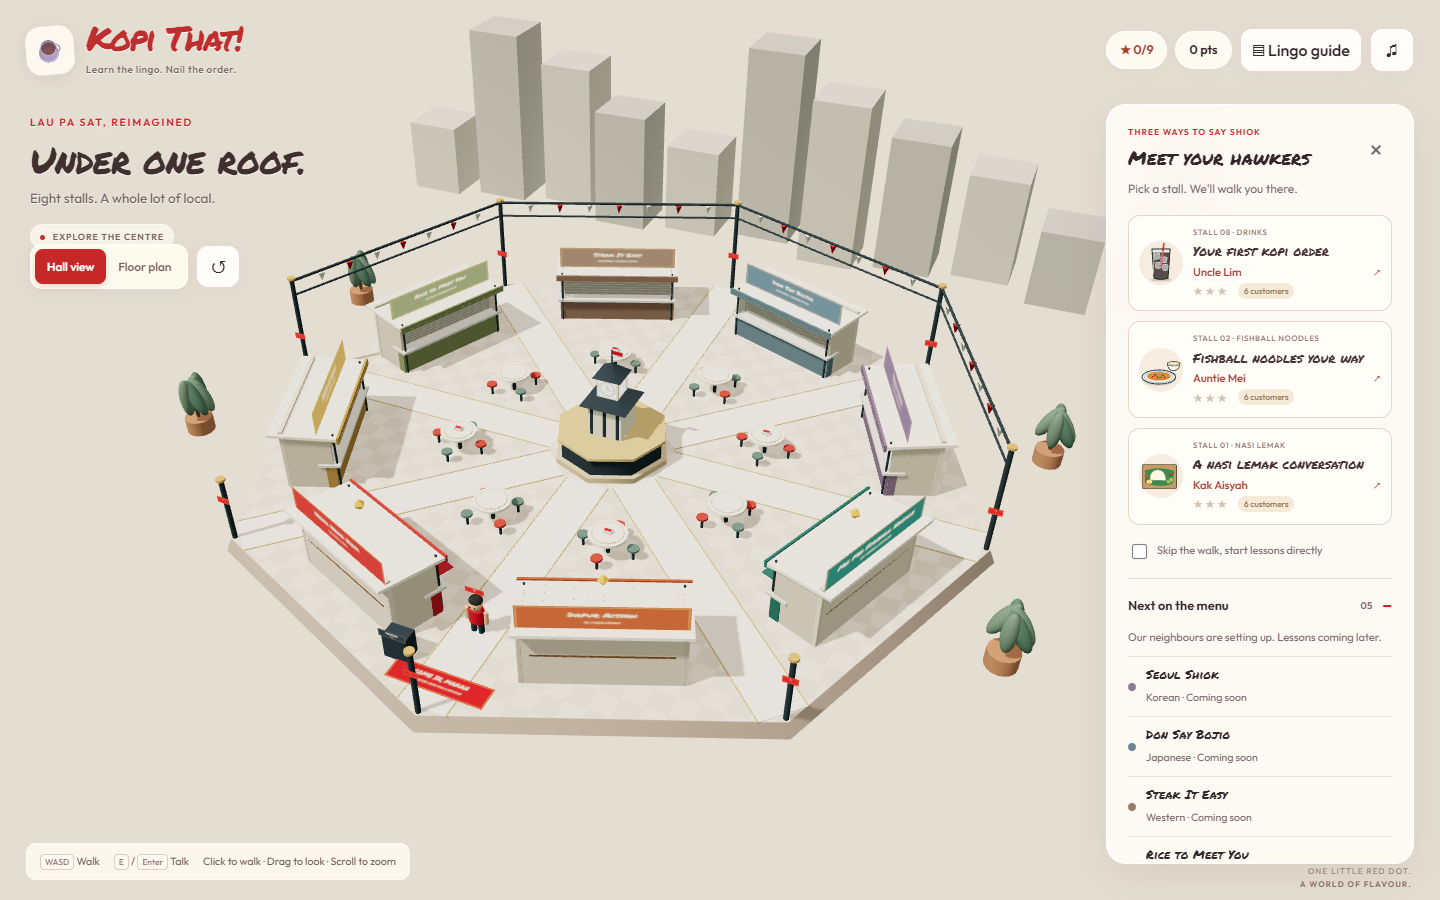
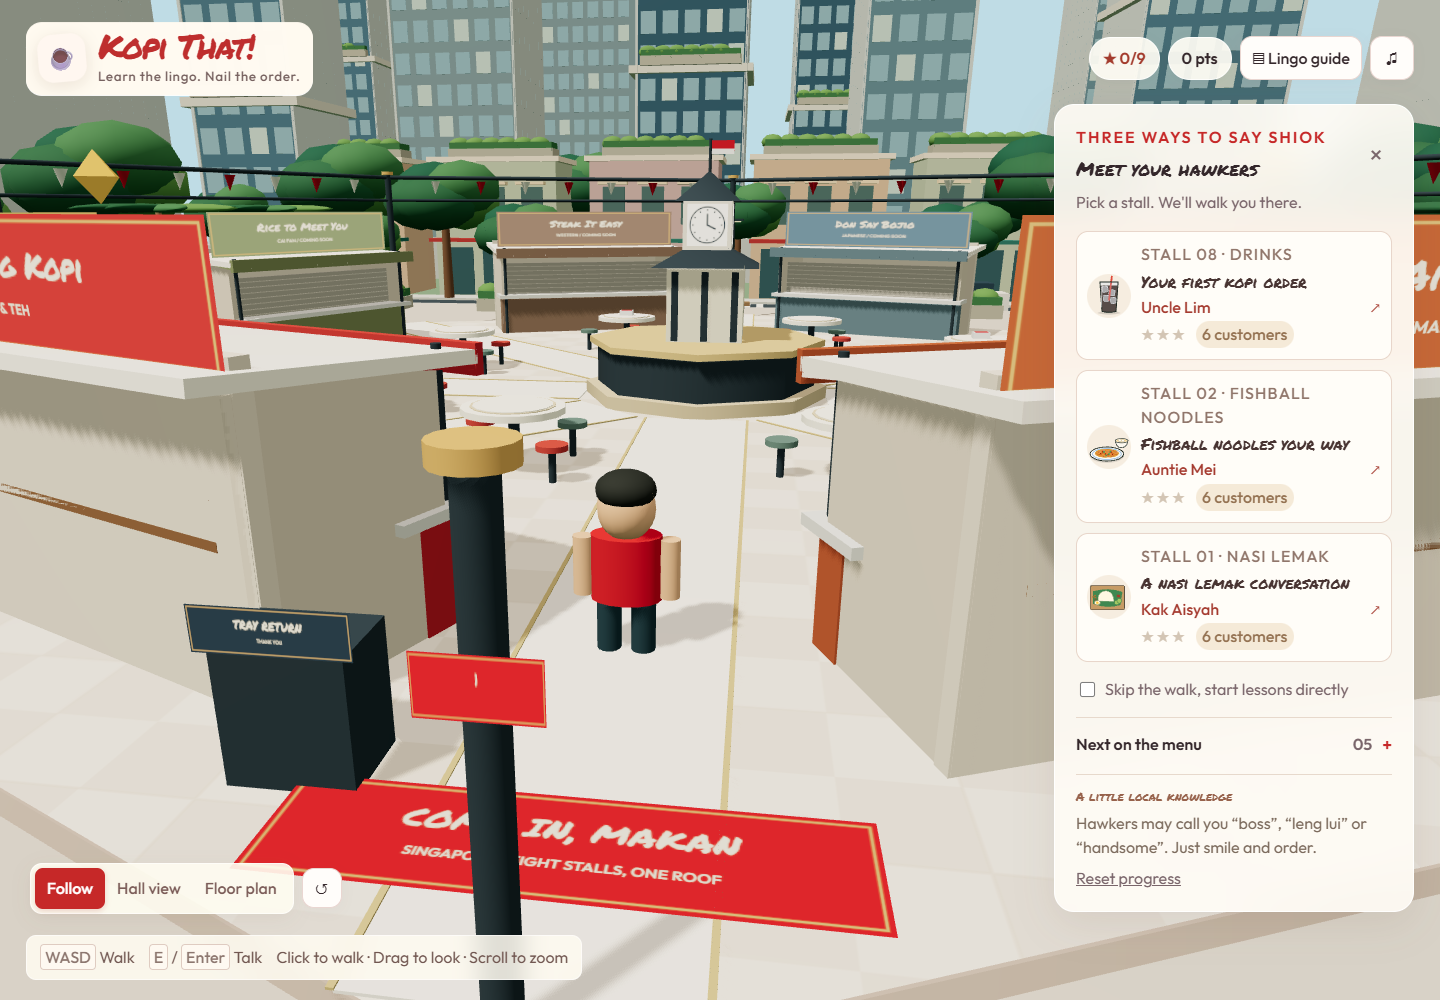
docs: describe follow controls and the Singapore city backdrop

diff --git a/README.md b/README.md
@@ -32,7 +32,7 @@ The game is single-player and uses guided, authored lessons. There is no microph
 
 The full browser viewport is the 3D game. The logo, progress, lingo guide, sound controls and collapsible **Meet your hawkers** panel float over the hall. Lessons and dialogs are accessible HTML overlays over the same world. On smaller screens, open the hawker panel to choose a lesson or enable direct lessons.
 
-An octagonal footprint, eight radial walkways, shared tables and a central clock pavilion echo the supplied layout reference. Switch between **Hall view** and **Floor plan**, then orbit or zoom to explore. The three original stalls remain playable; five shuttered neighbours are decorative placeholders with no interactions or lessons:
+An octagonal footprint, eight radial walkways, shared tables and a central clock pavilion echo the supplied layout reference. The default **Follow** view stays behind your character and moves with you, with drag-to-orbit and zoom controls. The camera moves closer when a stall or the central pavilion blocks its view. **Hall view** and **Floor plan** remain available for orientation; reset returns to the follow camera. The three original stalls remain playable; five shuttered neighbours are decorative placeholders with no interactions or lessons:
 
 | Cuisine  | Coming-soon stall |
 | -------- | ----------------- |
@@ -41,6 +41,10 @@ An octagonal footprint, eight radial walkways, shared tables and a central clock
 | Western  | Steak It Easy     |
 | Japanese | Don Say Bojio     |
 | Korean   | Seoul Shiok       |
+
+A surrounding fictional city district adds glass towers, planted sky terraces, low-rise shopfronts, tropical trees and palms, planters, pavements, crossings, streetlights and cars. The city surrounds the hall in third person; the overview cuts away foreground buildings to keep the playable area visible. The backdrop is decorative, with walking confined to the hawker hall.
+
+Normal reading text inherits browser font sizes, including the browser’s preferred default text size. Panels wrap and scroll to accommodate it; only headings, the logo and decorative icons retain display sizing.
 
 The visual identity pairs [Permanent Marker](https://fonts.google.com/specimen/Permanent+Marker) for the logo and headings with [Outfit](https://fonts.google.com/specimen/Outfit) for reading text. Singapore's [red and white national colours](https://www.nhb.gov.sg/what-we-do/our-work/community-engagement/education/resources/national-symbols/national-flag) inform the palette, using [Material Red 700, #D32F2F](https://m1.material.io/style/color.html) alongside warm white surfaces, neutral text and dark-mode overlay colours.
 
@@ -65,7 +69,7 @@ Use the development server instead of opening `index.html` directly: browser mod
 | Visit a stall         | Click its counter or choose its lesson card; your avatar walks there      |
 | Talk nearby           | E / Enter, or the on-screen talk button                                   |
 | Look around           | Drag the scene; scroll or pinch to zoom                                   |
-| Reset camera          | Reset camera button                                                       |
+| Reset camera          | Reset follow camera button                                                |
 | Learn without walking | Select “Skip the walk, start lessons directly”                            |
 | Place an order        | Click phrase chips, then Place order; Enter also submits outside a button |
 | Undo / close a dialog | Backspace / Escape                                                        |
@@ -85,7 +89,7 @@ src/
   art/           Original SVG food and character illustrations
   audio/         Optional Web Audio feedback
   ui/            Hub, feedback, dialogs and formatting
-  world/         Three.js scene, procedural environment and navigation
+  world/         Three.js scene, follow camera, instanced city, hall and navigation
   shared/        Small shared utilities
   styles/        Base lesson styles and the new experience design
   main.js        Application composition and screen transitions
@@ -96,7 +100,7 @@ tests/
 
 The world loads in a separate module behind the title screen. The lesson controller does not depend on Three.js: the hub connects navigation to lesson entry through callbacks. Collision and route planning use a small, static 2D footprint of the hall, with A* routes around all eight counters, communal tables, the central pavilion and the tray return. A full physics engine would add cost without improving this fixed-floor walking mechanic.
 
-Geometry, materials and textures are shared where appropriate and disposed when the scene is destroyed. Pixel density and shadow resolution are bounded, background/hidden scenes stop rendering, and decorative animation respects reduced-motion preferences. All 3D models are generated locally, and Permanent Marker and Outfit are bundled through Fontsource; no runtime model or font CDN is required. The 3D engine is loaded separately from the lesson interface (approximately 148 kB gzipped).
+City windows and foliage use instanced meshes to keep draw calls bounded. Geometry, materials and textures are shared where appropriate and disposed when the scene is destroyed. Pixel density and shadow resolution are bounded, background/hidden scenes stop rendering, and decorative animation respects reduced-motion preferences. All 3D models are generated locally, and Permanent Marker and Outfit are bundled through Fontsource; no runtime model or font CDN is required. The 3D engine is loaded separately from the lesson interface (approximately 149 kB gzipped).
 
 ### Checks
 
